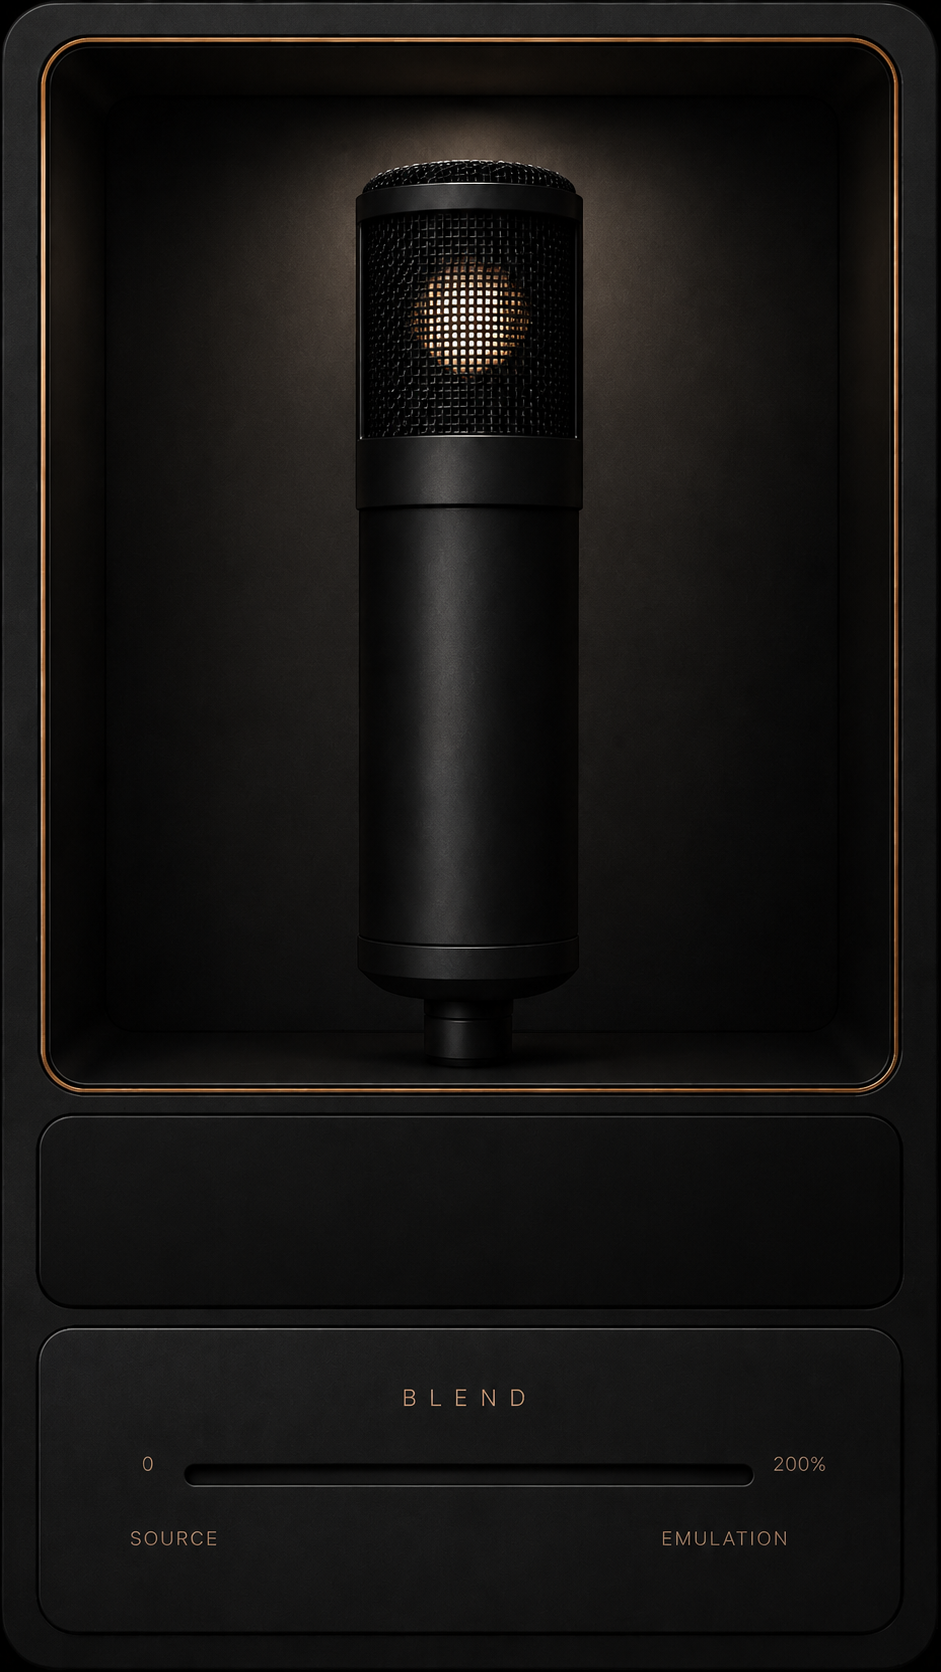
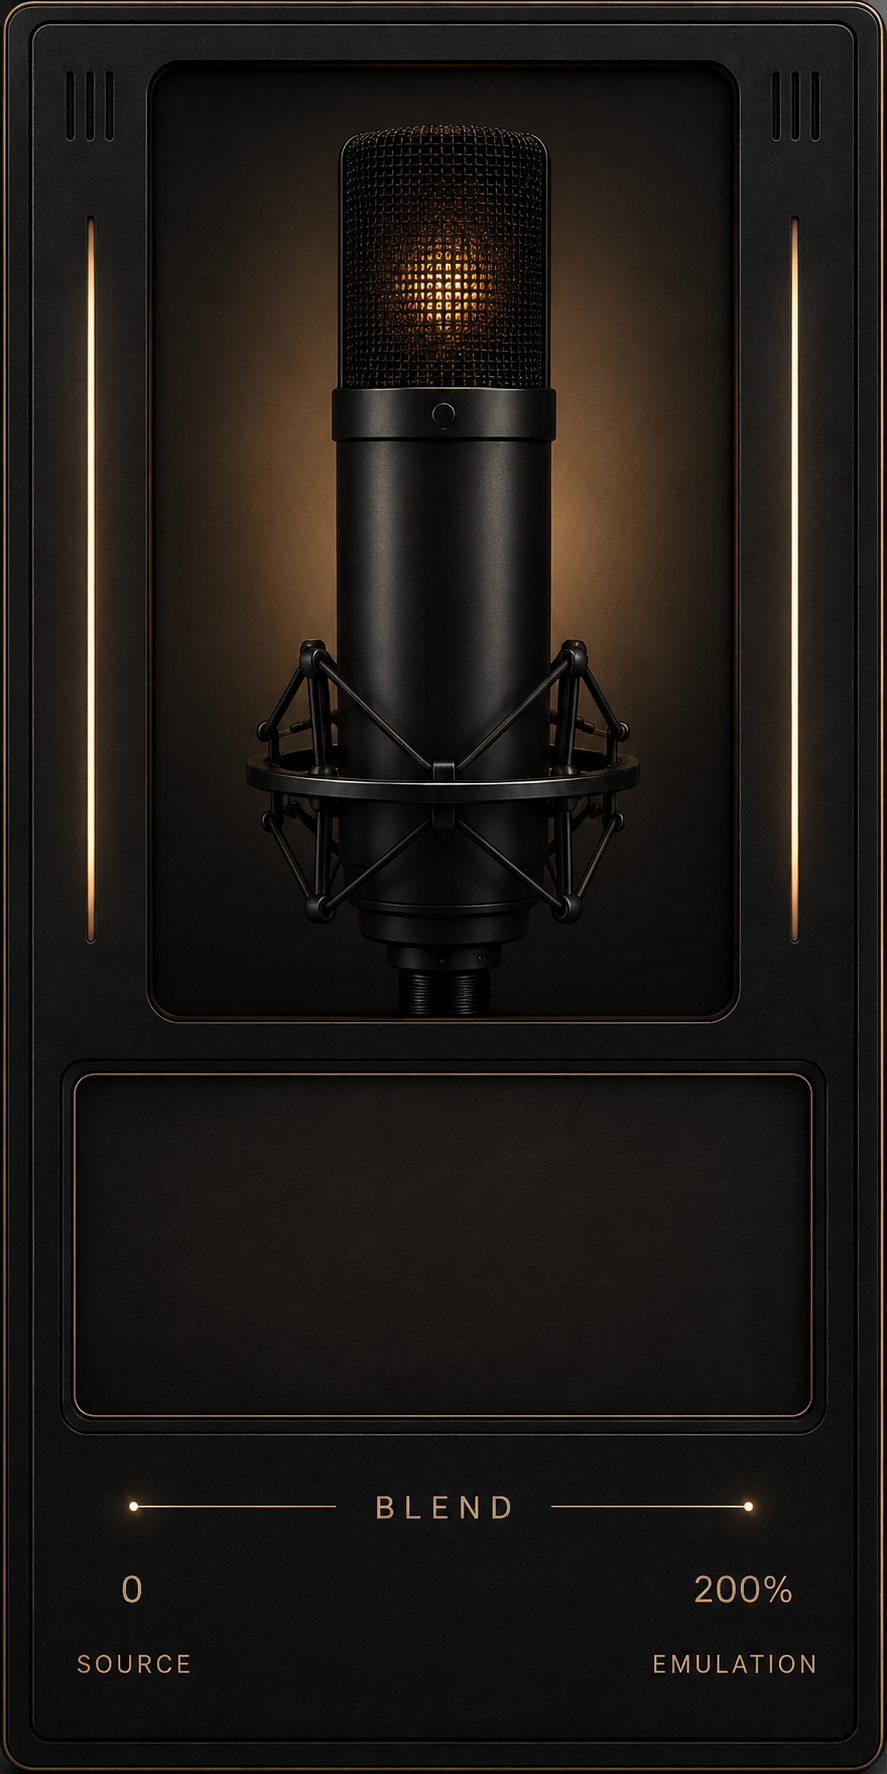
Update plugin design

diff --git a/Source/PluginEditor.cpp b/Source/PluginEditor.cpp
@@ -3,8 +3,8 @@
 
 namespace
 {
-constexpr int editorWidth = 470;
-constexpr int editorHeight = 836;
+constexpr int editorWidth = 444;
+constexpr int editorHeight = 888;
 
 const auto panelAccent = juce::Colour (0xffc49a78);
 const auto panelGold = juce::Colour (0xffd6b18f);
@@ -27,23 +27,23 @@ EqCurveComponent::EqCurveComponent (RodeM2ToSlateML1AudioProcessor& processorToU
 
 void EqCurveComponent::paint (juce::Graphics& g)
 {
-    const auto bounds = getLocalBounds().toFloat().reduced (6.0f);
+    const auto bounds = getLocalBounds().toFloat().reduced (4.0f);
 
-    g.setColour (juce::Colours::black.withAlpha (0.46f));
-    g.fillRoundedRectangle (bounds, 7.0f);
+    g.setColour (juce::Colours::black.withAlpha (0.28f));
+    g.fillRoundedRectangle (bounds, 6.0f);
 
-    g.setColour (panelAccent.withAlpha (0.18f));
-    g.drawRoundedRectangle (bounds, 7.0f, 1.0f);
+    g.setColour (panelAccent.withAlpha (0.22f));
+    g.drawRoundedRectangle (bounds, 6.0f, 1.0f);
 
     const auto plot = bounds.reduced (10.0f, 8.0f);
 
-    g.setColour (juce::Colours::white.withAlpha (0.07f));
+    g.setColour (juce::Colours::white.withAlpha (0.045f));
     for (auto normalisedX : { 0.18f, 0.36f, 0.54f, 0.72f, 0.90f })
         g.drawVerticalLine (juce::roundToInt (plot.getX() + plot.getWidth() * normalisedX),
                             plot.getY(),
                             plot.getBottom());
 
-    g.setColour (panelGold.withAlpha (0.22f));
+    g.setColour (panelGold.withAlpha (0.17f));
     g.drawHorizontalLine (juce::roundToInt (plot.getCentreY()), plot.getX(), plot.getRight());
 
     juce::Path response;
@@ -139,16 +139,16 @@ void RodeM2ToSlateML1AudioProcessorEditor::paintOverChildren (juce::Graphics& g)
     const auto valueText = juce::String (value) + "%";
 
     g.setColour (panelGold.withAlpha (0.84f));
-    g.setFont (juce::FontOptions (13.0f).withStyle ("Bold"));
-    g.drawFittedText (valueText, scaleRect (0.425f, 0.846f, 0.15f, 0.030f), juce::Justification::centred, 1);
+    g.setFont (juce::FontOptions (12.0f).withStyle ("Bold"));
+    g.drawFittedText (valueText, scaleRect (0.425f, 0.779f, 0.15f, 0.025f), juce::Justification::centred, 1);
 
 }
 
 void RodeM2ToSlateML1AudioProcessorEditor::resized()
 {
-    eqCurve.setBounds (scaleRect (0.090f, 0.685f, 0.820f, 0.075f));
-    blendSlider.setBounds (scaleRect (0.198f, 0.872f, 0.604f, 0.026f));
-    sourceMicBox.setBounds (scaleRect (0.315f, 0.116f, 0.370f, 0.040f));
+    sourceMicBox.setBounds (scaleRect (0.274f, 0.635f, 0.452f, 0.043f));
+    eqCurve.setBounds (scaleRect (0.104f, 0.688f, 0.792f, 0.086f));
+    blendSlider.setBounds (scaleRect (0.146f, 0.837f, 0.708f, 0.040f));
 }
 
 void RodeM2ToSlateML1AudioProcessorEditor::timerCallback()
@@ -182,45 +182,47 @@ void RodeM2ToSlateML1AudioProcessorEditor::EmuLookAndFeel::drawLinearSlider (juc
                                                static_cast<float> (height));
     juce::ignoreUnused (sliderPos, minSliderPos, maxSliderPos);
 
-    const auto track = juce::Rectangle<float> (bounds.getX() + 4.0f,
-                                              bounds.getCentreY() - 3.0f,
-                                              bounds.getWidth() - 8.0f,
-                                              6.0f);
-
-    g.setColour (juce::Colours::black.withAlpha (0.72f));
-    g.fillRoundedRectangle (track.expanded (2.0f, 2.0f), 7.0f);
-
-    g.setColour (juce::Colours::white.withAlpha (0.08f));
-    g.drawRoundedRectangle (track.expanded (2.0f, 2.0f), 7.0f, 1.0f);
+    const auto track = juce::Rectangle<float> (bounds.getX() + 2.0f,
+                                              bounds.getCentreY() - 1.0f,
+                                              bounds.getWidth() - 4.0f,
+                                              2.0f);
 
     const auto min = slider.getMinimum();
     const auto max = slider.getMaximum();
     const auto proportion = max > min ? juce::jlimit (0.0, 1.0, (slider.getValue() - min) / (max - min)) : 0.0;
-    const auto fillRight = track.getX() + track.getWidth() * static_cast<float> (proportion);
-    const auto fill = juce::Rectangle<float> (track.getX(),
-                                             track.getY(),
-                                             fillRight - track.getX(),
-                                             track.getHeight());
+    const auto thumbX = track.getX() + track.getWidth() * static_cast<float> (proportion);
+    const auto centreY = track.getCentreY();
+    const auto centreGap = 44.0f;
 
-    g.setColour (panelAccent.withAlpha (slider.isEnabled() ? 0.78f : 0.32f));
-    g.fillRoundedRectangle (fill, 5.0f);
+    g.setColour (panelGold.withAlpha (0.42f));
+    g.drawLine (track.getX(), centreY, bounds.getCentreX() - centreGap, centreY, 1.0f);
+    g.drawLine (bounds.getCentreX() + centreGap, centreY, track.getRight(), centreY, 1.0f);
 
-    const auto thumbBounds = juce::Rectangle<float> (fillRight - 6.0f,
-                                                    bounds.getCentreY() - 9.0f,
-                                                    12.0f,
-                                                    18.0f);
+    if (slider.isEnabled())
+    {
+        const auto fillStart = track.getX();
+        const auto fillEnd = thumbX;
 
-    g.setColour (juce::Colours::black.withAlpha (0.58f));
-    g.fillRoundedRectangle (thumbBounds.translated (0.0f, 2.0f), 7.0f);
+        g.setColour (panelGold.withAlpha (0.72f));
+        if (fillEnd < bounds.getCentreX() - centreGap)
+            g.drawLine (fillStart, centreY, fillEnd, centreY, 1.4f);
+        else
+        {
+            g.drawLine (fillStart, centreY, bounds.getCentreX() - centreGap, centreY, 1.4f);
+            if (fillEnd > bounds.getCentreX() + centreGap)
+                g.drawLine (bounds.getCentreX() + centreGap, centreY, fillEnd, centreY, 1.4f);
+        }
+    }
 
-    g.setGradientFill (juce::ColourGradient (panelGold.brighter (0.15f),
-                                             thumbBounds.getX(),
-                                             thumbBounds.getY(),
-                                             panelAccent.darker (0.20f),
-                                             thumbBounds.getRight(),
-                                             thumbBounds.getBottom(),
-                                             false));
-    g.fillRoundedRectangle (thumbBounds, 7.0f);
+    const auto glowBounds = juce::Rectangle<float> (thumbX - 9.0f, centreY - 9.0f, 18.0f, 18.0f);
+    const auto thumbBounds = juce::Rectangle<float> (thumbX - 3.5f, centreY - 3.5f, 7.0f, 7.0f);
+
+    g.setColour (panelGold.withAlpha (0.24f));
+    g.fillEllipse (glowBounds);
+    g.setColour (panelGold.withAlpha (0.96f));
+    g.fillEllipse (thumbBounds);
+    g.setColour (juce::Colours::white.withAlpha (0.72f));
+    g.fillEllipse (thumbBounds.reduced (1.8f));
 }
 
 void RodeM2ToSlateML1AudioProcessorEditor::EmuLookAndFeel::drawButtonBackground (juce::Graphics& g,
@@ -237,10 +239,10 @@ void RodeM2ToSlateML1AudioProcessorEditor::EmuLookAndFeel::drawButtonBackground 
         fill = fill.brighter (0.10f);
 
     g.setColour (fill);
-    g.fillRoundedRectangle (bounds, 7.0f);
+    g.fillRoundedRectangle (bounds, 6.0f);
 
     g.setColour ((active ? juce::Colours::black : panelGold).withAlpha (0.65f));
-    g.drawRoundedRectangle (bounds, 7.0f, 1.0f);
+    g.drawRoundedRectangle (bounds, 6.0f, 1.0f);
 }
 
 void RodeM2ToSlateML1AudioProcessorEditor::EmuLookAndFeel::drawButtonText (juce::Graphics& g,
@@ -267,16 +269,16 @@ void RodeM2ToSlateML1AudioProcessorEditor::EmuLookAndFeel::drawComboBox (juce::G
     auto bounds = juce::Rectangle<float> (0.5f, 0.5f,
                                           static_cast<float> (width) - 1.0f,
                                           static_cast<float> (height) - 1.0f);
-    auto fill = juce::Colours::black.withAlpha (0.70f);
+    auto fill = juce::Colours::black.withAlpha (0.62f);
 
     if (box.isMouseOverOrDragging() || isButtonDown)
         fill = fill.brighter (0.05f);
 
     g.setColour (fill);
-    g.fillRoundedRectangle (bounds, 7.0f);
+    g.fillRoundedRectangle (bounds, 6.0f);
 
-    g.setColour (panelAccent.withAlpha (0.70f));
-    g.drawRoundedRectangle (bounds, 7.0f, 1.0f);
+    g.setColour (panelAccent.withAlpha (0.78f));
+    g.drawRoundedRectangle (bounds, 6.0f, 1.0f);
 
     const auto arrowArea = bounds.removeFromRight (24.0f).reduced (7.0f, 9.0f);
     juce::Path arrow;
@@ -293,7 +295,7 @@ void RodeM2ToSlateML1AudioProcessorEditor::EmuLookAndFeel::positionComboBoxText 
 {
     label.setBounds (box.getLocalBounds().reduced (10, 1).withTrimmedRight (20));
     label.setJustificationType (juce::Justification::centred);
-    label.setFont (juce::FontOptions (11.5f).withStyle ("Bold"));
+    label.setFont (juce::FontOptions (12.0f).withStyle ("Bold"));
     label.setColour (juce::Label::textColourId, panelGold.withAlpha (0.88f));
 }
 
